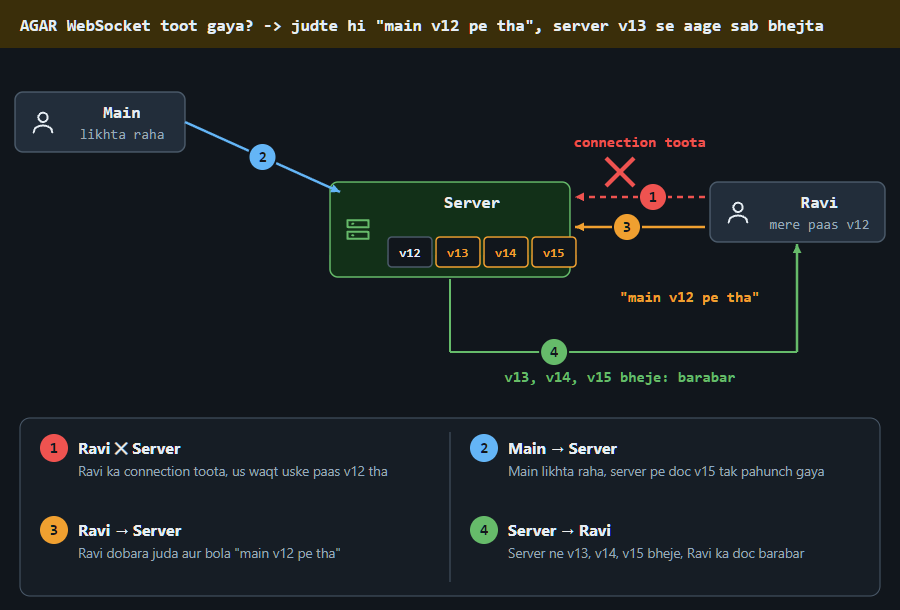
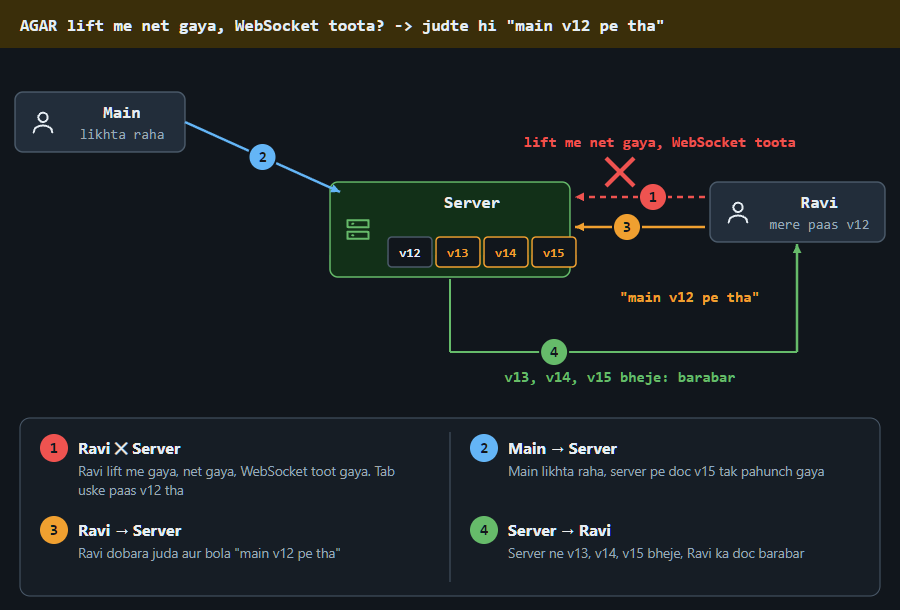
hld docs: har card ke Cue ke neeche Jod (padhi hui cheez se), c2 tasveer me WebSocket kaise toota (lift me net), c3 heading saada + OT tasveer me Y kyun khiska, c6 ACK shabd saaf

Changed region(s): [[0.0622, 0.0311, 0.9333, 0.0623], [0.0933, 0.7475, 0.4356, 0.8098], [0.5911, 0.218, 0.9022, 0.2492]]

diff --git a/04_HLD/SYSTEM_DESIGNS/11_google_docs_collab/img/c3_anim.html b/04_HLD/SYSTEM_DESIGNS/11_google_docs_collab/img/c3_anim.html
@@ -197,7 +197,7 @@ function draw(t) {
 const DUR = 9;
 const PH = [
   [0, RED, 'DIKKAT', 'DIKKAT: dono ne pos 0 pe ek saath likha. Jo aaya wahi laga diya, do alag doc ban gaye'],
-  [3, GRN, 'ILAAJ', 'ILAAJ: kram server ka (OT): X v8, Y v9 aur 0 se 1 pe khiska. Dono ke paas XYHELLO'],
+  [3, GRN, 'ILAAJ', 'ILAAJ: kram server ka (OT): X v8. Y ne X nahi dekha, to 0 → 1 (v9). XYHELLO'],
   [6, YEL, 'AGAR', 'AGAR Ravi ka op baad me aaya, maine beech me likh diya? -> app apna pending op khiskata'],
 ];
 function setup() {}
@@ -205,10 +205,10 @@ const STEPS = [
   [[C.msg, 'Main → Ravi', 'Maine pos 0 pe "X" likha, apne paas lagaya aur Ravi ko bheja'],
    [C.msg, 'Ravi → Main', 'Usi pal Ravi ne pos 0 pe "Y" likha aur mujhe bheja'],
    [C.bad, 'dono screen', 'Jo aaya wahi 0 pe laga: mere paas YXHELLO, Ravi ke paas XYHELLO']],
-  [[C.msg, 'Main → Server', 'Maine "X" pos 0 pe bheja, v7 pe bana'],
-   [C.msg, 'Ravi → Server', 'Ravi ne "Y" pos 0 pe bheja, wo bhi v7 pe bana'],
-   [C.acc, 'Server', 'X pehle aaya to v8; Y bhi v7 pe tha, to 0 se 1 pe khiska (v9)'],
-   [C.good, 'Server → dono', 'Yahi kram dono ko gaya, dono ki screen XYHELLO, same']],
+  [[C.msg, 'Main → Server', 'Maine pos 0 pe "X" bheja. Mere paas doc v7 tha'],
+   [C.msg, 'Ravi → Server', 'Usi pal Ravi ne bhi pos 0 pe "Y" bheja, wo bhi v7 pe'],
+   [C.acc, 'Server', 'X pehle aaya: v8, doc XHELLO. Y v7 pe bana tha, X dekha hi nahi, isliye 0 → 1 khiska (v9)'],
+   [C.good, 'Server → dono', 'Server ne yahi kram dono ko bheja. Dono ki screen XYHELLO, same']],
   [[C.acc, 'Main', 'Maine end pe "Z" likha (pos 5), server ka jawab abhi nahi aaya'],
    [C.msg, 'Server → Main', 'Beech me Ravi ka "X" pos 0 pe aaya (v8)'],
    [C.good, 'Main ka app', 'App ne X lagaya, apna pending Z pos 5 se 6 khiskaya: XHELLOZ']],
@@ -226,14 +226,19 @@ function frame(ph) {
   } else if (ph === 1) {
     B(15, 30, 200, 60, 'Main', '"X" @0, v7', { icon: 'user' });
     B(15, 255, 200, 60, 'Ravi', '"Y" @0, v7', { icon: 'user' });
-    B(340, 120, 250, 100, 'Server', '', { st: 'good', icon: 'server' });
-    T(475, 175, 'v8: X @0', { c: C.good, b: 1, size: 14 }); T(475, 198, 'v9: Y @0 -> @1', { c: C.acc, b: 1, size: 14 });
-    A(215, 60, 338, 135, C.msg, { n: 1, at: 0.4 }); A(215, 285, 338, 205, C.msg, { n: 2, at: 0.4 });
-    num(615, 150, 3, C.acc);
-    A(592, 175, 690, 175, C.good, { n: 4, at: 0.5 });
-    T(700, 120, 'dono ke paas:', { c: C.muted, b: 1, size: 14, a: 'start' });
-    cells(700, 160, [['X', C.good], ['Y', C.good], ['HELLO']], { w: 60, h: 34 });
-    L(450, 320, 'kram sirf server ka, phone ki ghadi kabhi nahi', C.muted);
+    B(300, 30, 330, 270, 'Server', '', { st: 'good' });
+    A(215, 60, 298, 110, C.msg, { n: 1, at: 0.45 }); A(215, 285, 298, 230, C.msg, { n: 2, at: 0.45 });
+    num(605, 60, 3, C.acc);
+    T(320, 112, 'v8: X pehle aaya, 0 pe laga', { c: C.good, b: 1, size: 14, a: 'start' });
+    cells(320, 124, [['X', C.good], ['HELLO']], { w: 64, h: 34 });
+    T(320, 196, 'v9: Y v7 pe bana, X dekha nahi', { c: C.acc, b: 1, size: 14, a: 'start' });
+    cells(320, 208, [['X'], ['Y', C.acc], ['HELLO']], { w: 64, h: 34 });
+    L(578, 230, 'Y: 0 → 1', C.acc);
+    L(465, 280, 'X ne 0 le liya, Y ek aage', C.acc);
+    A(632, 170, 700, 170, C.good, { n: 4, at: 0.5 });
+    T(705, 125, 'dono ke paas:', { c: C.muted, b: 1, size: 14, a: 'start' });
+    cells(705, 152, [['X', C.good], ['Y', C.good], ['HELLO']], { w: 56, h: 34 });
+    L(450, 330, 'kram sirf server ka, phone ki ghadi kabhi nahi', C.muted);
   } else {
     B(15, 130, 210, 65, 'Main ka app', 'pending: Z @5', { st: 'acc', icon: 'user' }); num(245, 110, 1, C.acc);
     B(15, 270, 210, 55, 'Server', 'Ravi ka X @0 = v8', { icon: 'server' });

diff --git a/04_HLD/SYSTEM_DESIGNS/11_google_docs_collab/img/c3_anim.js b/04_HLD/SYSTEM_DESIGNS/11_google_docs_collab/img/c3_anim.js
@@ -2,7 +2,7 @@
 const DUR = 9;
 const PH = [
   [0, RED, 'DIKKAT', 'DIKKAT: dono ne pos 0 pe ek saath likha. Jo aaya wahi laga diya, do alag doc ban gaye'],
-  [3, GRN, 'ILAAJ', 'ILAAJ: kram server ka (OT): X v8, Y v9 aur 0 se 1 pe khiska. Dono ke paas XYHELLO'],
+  [3, GRN, 'ILAAJ', 'ILAAJ: kram server ka (OT): X v8. Y ne X nahi dekha, to 0 → 1 (v9). XYHELLO'],
   [6, YEL, 'AGAR', 'AGAR Ravi ka op baad me aaya, maine beech me likh diya? -> app apna pending op khiskata'],
 ];
 function setup() {}
@@ -10,10 +10,10 @@ const STEPS = [
   [[C.msg, 'Main → Ravi', 'Maine pos 0 pe "X" likha, apne paas lagaya aur Ravi ko bheja'],
    [C.msg, 'Ravi → Main', 'Usi pal Ravi ne pos 0 pe "Y" likha aur mujhe bheja'],
    [C.bad, 'dono screen', 'Jo aaya wahi 0 pe laga: mere paas YXHELLO, Ravi ke paas XYHELLO']],
-  [[C.msg, 'Main → Server', 'Maine "X" pos 0 pe bheja, v7 pe bana'],
-   [C.msg, 'Ravi → Server', 'Ravi ne "Y" pos 0 pe bheja, wo bhi v7 pe bana'],
-   [C.acc, 'Server', 'X pehle aaya to v8; Y bhi v7 pe tha, to 0 se 1 pe khiska (v9)'],
-   [C.good, 'Server → dono', 'Yahi kram dono ko gaya, dono ki screen XYHELLO, same']],
+  [[C.msg, 'Main → Server', 'Maine pos 0 pe "X" bheja. Mere paas doc v7 tha'],
+   [C.msg, 'Ravi → Server', 'Usi pal Ravi ne bhi pos 0 pe "Y" bheja, wo bhi v7 pe'],
+   [C.acc, 'Server', 'X pehle aaya: v8, doc XHELLO. Y v7 pe bana tha, X dekha hi nahi, isliye 0 → 1 khiska (v9)'],
+   [C.good, 'Server → dono', 'Server ne yahi kram dono ko bheja. Dono ki screen XYHELLO, same']],
   [[C.acc, 'Main', 'Maine end pe "Z" likha (pos 5), server ka jawab abhi nahi aaya'],
    [C.msg, 'Server → Main', 'Beech me Ravi ka "X" pos 0 pe aaya (v8)'],
    [C.good, 'Main ka app', 'App ne X lagaya, apna pending Z pos 5 se 6 khiskaya: XHELLOZ']],
@@ -31,14 +31,19 @@ function frame(ph) {
   } else if (ph === 1) {
     B(15, 30, 200, 60, 'Main', '"X" @0, v7', { icon: 'user' });
     B(15, 255, 200, 60, 'Ravi', '"Y" @0, v7', { icon: 'user' });
-    B(340, 120, 250, 100, 'Server', '', { st: 'good', icon: 'server' });
-    T(475, 175, 'v8: X @0', { c: C.good, b: 1, size: 14 }); T(475, 198, 'v9: Y @0 -> @1', { c: C.acc, b: 1, size: 14 });
-    A(215, 60, 338, 135, C.msg, { n: 1, at: 0.4 }); A(215, 285, 338, 205, C.msg, { n: 2, at: 0.4 });
-    num(615, 150, 3, C.acc);
-    A(592, 175, 690, 175, C.good, { n: 4, at: 0.5 });
-    T(700, 120, 'dono ke paas:', { c: C.muted, b: 1, size: 14, a: 'start' });
-    cells(700, 160, [['X', C.good], ['Y', C.good], ['HELLO']], { w: 60, h: 34 });
-    L(450, 320, 'kram sirf server ka, phone ki ghadi kabhi nahi', C.muted);
+    B(300, 30, 330, 270, 'Server', '', { st: 'good' });
+    A(215, 60, 298, 110, C.msg, { n: 1, at: 0.45 }); A(215, 285, 298, 230, C.msg, { n: 2, at: 0.45 });
+    num(605, 60, 3, C.acc);
+    T(320, 112, 'v8: X pehle aaya, 0 pe laga', { c: C.good, b: 1, size: 14, a: 'start' });
+    cells(320, 124, [['X', C.good], ['HELLO']], { w: 64, h: 34 });
+    T(320, 196, 'v9: Y v7 pe bana, X dekha nahi', { c: C.acc, b: 1, size: 14, a: 'start' });
+    cells(320, 208, [['X'], ['Y', C.acc], ['HELLO']], { w: 64, h: 34 });
+    L(578, 230, 'Y: 0 → 1', C.acc);
+    L(465, 280, 'X ne 0 le liya, Y ek aage', C.acc);
+    A(632, 170, 700, 170, C.good, { n: 4, at: 0.5 });
+    T(705, 125, 'dono ke paas:', { c: C.muted, b: 1, size: 14, a: 'start' });
+    cells(705, 152, [['X', C.good], ['Y', C.good], ['HELLO']], { w: 56, h: 34 });
+    L(450, 330, 'kram sirf server ka, phone ki ghadi kabhi nahi', C.muted);
   } else {
     B(15, 130, 210, 65, 'Main ka app', 'pending: Z @5', { st: 'acc', icon: 'user' }); num(245, 110, 1, C.acc);
     B(15, 270, 210, 55, 'Server', 'Ravi ka X @0 = v8', { icon: 'server' });

diff --git a/04_HLD/SYSTEM_DESIGNS/11_google_docs_collab/img/c2_anim.html b/04_HLD/SYSTEM_DESIGNS/11_google_docs_collab/img/c2_anim.html
@@ -198,7 +198,7 @@ const DUR = 9;
 const PH = [
   [0, RED, 'DIKKAT', 'DIKKAT: HTTP ektarfa hai. Server khud Ravi ko nahi bhej sakta, Ravi ko refresh pe hi dikha'],
   [3, GRN, 'ILAAJ', 'ILAAJ: connection khula rehta, dono taraf (WebSocket). Server khud bhejta, ~200 ms me dikhta'],
-  [6, YEL, 'AGAR', 'AGAR WebSocket toot gaya? -> judte hi "main v12 pe tha", server v13 se aage sab bhejta'],
+  [6, YEL, 'AGAR', 'AGAR lift me net gaya, WebSocket toota? -> judte hi "main v12 pe tha"'],
 ];
 function setup() {}
 const STEPS = [
@@ -207,7 +207,7 @@ const STEPS = [
    [C.acc, 'Ravi → Server', 'Ravi ne refresh dabaya, tab jaake use "X" dikha']],
   [[C.msg, 'Main → Server', 'Maine "X" likha, khule connection (WebSocket) se server pe gaya'],
    [C.good, 'Server → Ravi', 'Server ne khud Ravi ko bheja, ~200 ms me dikha, refresh nahi']],
-  [[C.bad, 'Ravi ✕ Server', 'Ravi ka connection toota, us waqt uske paas v12 tha'],
+  [[C.bad, 'Ravi ✕ Server', 'Ravi lift me gaya, net gaya, WebSocket toot gaya. Tab uske paas v12 tha'],
    [C.msg, 'Main → Server', 'Main likhta raha, server pe doc v15 tak pahunch gaya'],
    [C.acc, 'Ravi → Server', 'Ravi dobara juda aur bola "main v12 pe tha"'],
    [C.good, 'Server → Ravi', 'Server ne v13, v14, v15 bheje, Ravi ka doc barabar']],
@@ -235,7 +235,7 @@ function frame(ph) {
     cells(388, 185, [['v12'], ['v13', C.acc], ['v14', C.acc], ['v15', C.acc]], { w: 44, h: 30 });
     B(710, 130, 175, 60, 'Ravi', 'mere paas v12', { icon: 'user' });
     A(185, 70, 340, 140, C.msg, { n: 2 });
-    A(705, 145, 575, 145, C.bad, { n: 1, dash: 1, at: 0.4 }); cross(620, 120); L(640, 95, 'connection toota', C.bad);
+    A(705, 145, 575, 145, C.bad, { n: 1, dash: 1, at: 0.4 }); cross(620, 120); L(660, 95, 'lift me net gaya, WebSocket toota', C.bad);
     A(705, 175, 575, 175, C.acc, { n: 3, at: 0.6 }); L(690, 250, '"main v12 pe tha"', C.acc);
     AP([[450, 227], [450, 300], [797, 300], [797, 192]], C.good, { n: 4, at: 0.3 }); L(620, 330, 'v13, v14, v15 bheje: barabar', C.good);
   }

diff --git a/04_HLD/SYSTEM_DESIGNS/11_google_docs_collab/img/c2_anim.js b/04_HLD/SYSTEM_DESIGNS/11_google_docs_collab/img/c2_anim.js
@@ -3,7 +3,7 @@ const DUR = 9;
 const PH = [
   [0, RED, 'DIKKAT', 'DIKKAT: HTTP ektarfa hai. Server khud Ravi ko nahi bhej sakta, Ravi ko refresh pe hi dikha'],
   [3, GRN, 'ILAAJ', 'ILAAJ: connection khula rehta, dono taraf (WebSocket). Server khud bhejta, ~200 ms me dikhta'],
-  [6, YEL, 'AGAR', 'AGAR WebSocket toot gaya? -> judte hi "main v12 pe tha", server v13 se aage sab bhejta'],
+  [6, YEL, 'AGAR', 'AGAR lift me net gaya, WebSocket toota? -> judte hi "main v12 pe tha"'],
 ];
 function setup() {}
 const STEPS = [
@@ -12,7 +12,7 @@ const STEPS = [
    [C.acc, 'Ravi → Server', 'Ravi ne refresh dabaya, tab jaake use "X" dikha']],
   [[C.msg, 'Main → Server', 'Maine "X" likha, khule connection (WebSocket) se server pe gaya'],
    [C.good, 'Server → Ravi', 'Server ne khud Ravi ko bheja, ~200 ms me dikha, refresh nahi']],
-  [[C.bad, 'Ravi ✕ Server', 'Ravi ka connection toota, us waqt uske paas v12 tha'],
+  [[C.bad, 'Ravi ✕ Server', 'Ravi lift me gaya, net gaya, WebSocket toot gaya. Tab uske paas v12 tha'],
    [C.msg, 'Main → Server', 'Main likhta raha, server pe doc v15 tak pahunch gaya'],
    [C.acc, 'Ravi → Server', 'Ravi dobara juda aur bola "main v12 pe tha"'],
    [C.good, 'Server → Ravi', 'Server ne v13, v14, v15 bheje, Ravi ka doc barabar']],
@@ -40,7 +40,7 @@ function frame(ph) {
     cells(388, 185, [['v12'], ['v13', C.acc], ['v14', C.acc], ['v15', C.acc]], { w: 44, h: 30 });
     B(710, 130, 175, 60, 'Ravi', 'mere paas v12', { icon: 'user' });
     A(185, 70, 340, 140, C.msg, { n: 2 });
-    A(705, 145, 575, 145, C.bad, { n: 1, dash: 1, at: 0.4 }); cross(620, 120); L(640, 95, 'connection toota', C.bad);
+    A(705, 145, 575, 145, C.bad, { n: 1, dash: 1, at: 0.4 }); cross(620, 120); L(660, 95, 'lift me net gaya, WebSocket toota', C.bad);
     A(705, 175, 575, 175, C.acc, { n: 3, at: 0.6 }); L(690, 250, '"main v12 pe tha"', C.acc);
     AP([[450, 227], [450, 300], [797, 300], [797, 192]], C.good, { n: 4, at: 0.3 }); L(620, 330, 'v13, v14, v15 bheje: barabar', C.good);
   }

diff --git a/04_HLD/SYSTEM_DESIGNS/11_google_docs_collab/11_google_docs_collab.md b/04_HLD/SYSTEM_DESIGNS/11_google_docs_collab/11_google_docs_collab.md
@@ -58,6 +58,8 @@ PEHLE   sabse simple tha: poora text DB me rakho, aur Save pe poora text upar li
 
 **Rail 4 DO LOG EK SAATH (save)** · Cue: OPERATION + baseVersion (text nahi)
 
+Jod: Jira / Confluence comment me bhi version; wahan purana = save MANA, Docs khiska ke lagata
+
 <details><summary>kahani dekho (3 scene)</summary>
 
 <img src="img/c1_1.png?v=1" width="900">
@@ -94,13 +96,15 @@ NAHI    lock lagao -> RUKNA: user ko lock ya intezaar nahi chahiye.
 
 **Rail 1 KAAM CHALA** · Cue: WEBSOCKET (khula, dono taraf)
 
+Jod: WhatsApp (net aate hi saare message ek saath) · Stock ka live price bhi WebSocket push (05 card 8)
+
 <details><summary>kahani dekho (3 scene)</summary>
 
-<img src="img/c2_1.png?v=1" width="900">
+<img src="img/c2_1.png?v=2" width="900">
 
-<img src="img/c2_2.png?v=1" width="900">
+<img src="img/c2_2.png?v=2" width="900">
 
-<img src="img/c2_3.png?v=1" width="900">
+<img src="img/c2_3.png?v=2" width="900">
 
 </details>
 
@@ -117,29 +121,32 @@ NAHI    HTTP -> EKTARFA: server khud kuch nahi bhej sakta.
 > [!TIP]
 > **Cross-Q: sawaal → cue, phir poora jawab**
 > - WebSocket connection chupchaap mar gaya → **ping / pong ~30 sec**: har ~30 second ping / pong hota hai. Jawab nahi aaya to connection band, jagah khaali
-> - WebSocket connection toot gaya → **"main v12 pe tha"**: main likhta rehta hoon. Judte hi bolta "main v12 pe tha", server v13 se aage sab bhej deta
+> - lift me net gaya, WebSocket toot gaya → **"main v12 pe tha"**: main likhta rehta hoon. Judte hi bolta "main v12 pe tha", server v13 se aage sab bhej deta
 
 
 ---
 
 *ab dono ek hi jagah ek saath likhein to?*
 
-## 3. 11 baje meeting me dono ne sabse upar ek saath type kiya
+## 3. Main aur Ravi ne sabse upar ek saath type kiya
 
 **Rail 4 DO LOG EK SAATH (khaas)** · Cue: OT (server kram, op khiskao)
 
+Jod: Chat me bhi kram server ka +1 number (seq), phone ki ghadi nahi (14 card 6)
+
 <details><summary>kahani dekho (3 scene)</summary>
 
-<img src="img/c3_1.png?v=1" width="900">
+<img src="img/c3_1.png?v=2" width="900">
 
-<img src="img/c3_2.png?v=1" width="900">
+<img src="img/c3_2.png?v=2" width="900">
 
-<img src="img/c3_3.png?v=1" width="900">
+<img src="img/c3_3.png?v=2" width="900">
 
 </details>
 
 ```
-HAL     kram server tay karta (OT): X pehle v8, Y v9 aur 0 se 1 pe khiska. Dono ke paas XYHELLO
+HAL     kram server tay karta (OT): X pehle aaya to v8. Y bhi v7 pe bana tha, X dikha hi nahi,
+        isliye Y 0 se 1 pe khiska (v9). Dono ke paas XYHELLO
 KYUN    kram sirf server ka hai, har op ko agla version milta, phone ki ghadi kabhi nahi.
         Aaya hua op us kram se khisakta hai, to sabki screen same rehti hai.
         Mujhe apna likha turant dikhta hai, baaki ka khisak ke aata hai
@@ -167,6 +174,8 @@ NAHI    jo aaya wahi laga do -> ALAG: meri screen "YX...", Ravi ki "XY...", do a
 ## 4. 50 lakh connection khule, ek connection server nahi jhelta
 
 **Rail 2 BHEED AAYI (connection)** · Cue: RING: docId se ek OWNER server
+
+Jod: URL shortener aur Cache me bhi ring (01 card 5, 10 card 2)
 
 <details><summary>kahani dekho (3 scene)</summary>
 
@@ -206,6 +215,8 @@ PEHLE   pehle poochho: ek doc pe ek saath kitne log hain, 2-3 ya 100?
 
 **Rail 2 BHEED AAYI (viewer)** · Cue: REDIS PUB/SUB (doc ek channel)
 
+Jod: Stock ka price bhi pub/sub se har WebSocket server tak (05 card 8)
+
 <details><summary>kahani dekho (3 scene)</summary>
 
 <img src="img/c5_1.png?v=1" width="900">
@@ -239,7 +250,9 @@ KYUN    jis server pe us doc ka user hai, wo channel sunta hai (subscriber).
 
 ## 6. 3 baje DB alert: har akshar pe DB me likha, DB baith gaya
 
-**Rail 6 DATA BADA (likhai)** · Cue: REDIS BUFFER + BATCH, ACK = WAIT 1
+**Rail 6 DATA BADA (likhai)** · Cue: REDIS BUFFER + BATCH, ACK copy ke baad
+
+Jod: Cassandra = sirf aage jodna (09 databases) · URL me bhi ginti Kafka se, raaste se bahar (01 card 4)
 
 <details><summary>kahani dekho (3 scene)</summary>
 
@@ -252,14 +265,15 @@ KYUN    jis server pe us doc ka user hai, wo channel sunta hai (subscriber).
 </details>
 
 ```
-HAL     op Redis buffer + copy dono me (WAIT 1, ~1 ms), tab ACK. Har 1 sec ek batch Cassandra me
+HAL     op Redis buffer aur uski copy dono me pahunche (Redis WAIT 1, ~1 ms), tab ACK.
+        Har 1 sec ek batch Cassandra me
 KYUN    ACK tabhi jab op buffer aur copy dono me pahunch gaya.
         Cassandra ka batch ACK ke raaste me hai hi nahi.
         Isliye turant "saved" milta hai aur DB pe likhai kam hoti hai
 ```
 
 > [!IMPORTANT]
-> **Yaad rakh:** Op Redis buffer + copy (WAIT 1), tab ACK. Har 1 sec batch Cassandra me. Batch ACK ke raaste me nahi.
+> **Yaad rakh:** Op Redis buffer + copy me pahuncha (WAIT 1), tab ACK. Har 1 sec batch Cassandra me. Batch ACK ke raaste me nahi.
 
 > [!TIP]
 > **Cross-Q: sawaal → cue, phir poora jawab**
@@ -277,6 +291,8 @@ KYUN    ACK tabhi jab op buffer aur copy dono me pahunch gaya.
 ## 7. Metro me mera net 1 second gaya, typing rukegi?
 
 **Rail 3 MACHINE GIRI (net gaya)** · Cue: likhna AP, permission CP
+
+Jod: WhatsApp bhi offline me type karne deta (AP) · Banking me transfer / balance CP (13)
 
 <details><summary>kahani dekho (3 scene)</summary>
 
@@ -315,6 +331,8 @@ PEHLE   pehle poochho: offline chahiye ya nahi? Isi ke jawab se poora CAP faisla
 ## 8. Raat ko 2 saal purana doc khola, 10 lakh op shuru se chale
 
 **Rail 5 KUCH DHEEMA (purana doc)** · Cue: SNAPSHOT + uske baad ke op
+
+Jod: Banking ka balance bhi = mahine ka snapshot + baad ki line (13 card 11)
 
 <details><summary>kahani dekho (3 scene)</summary>
 
